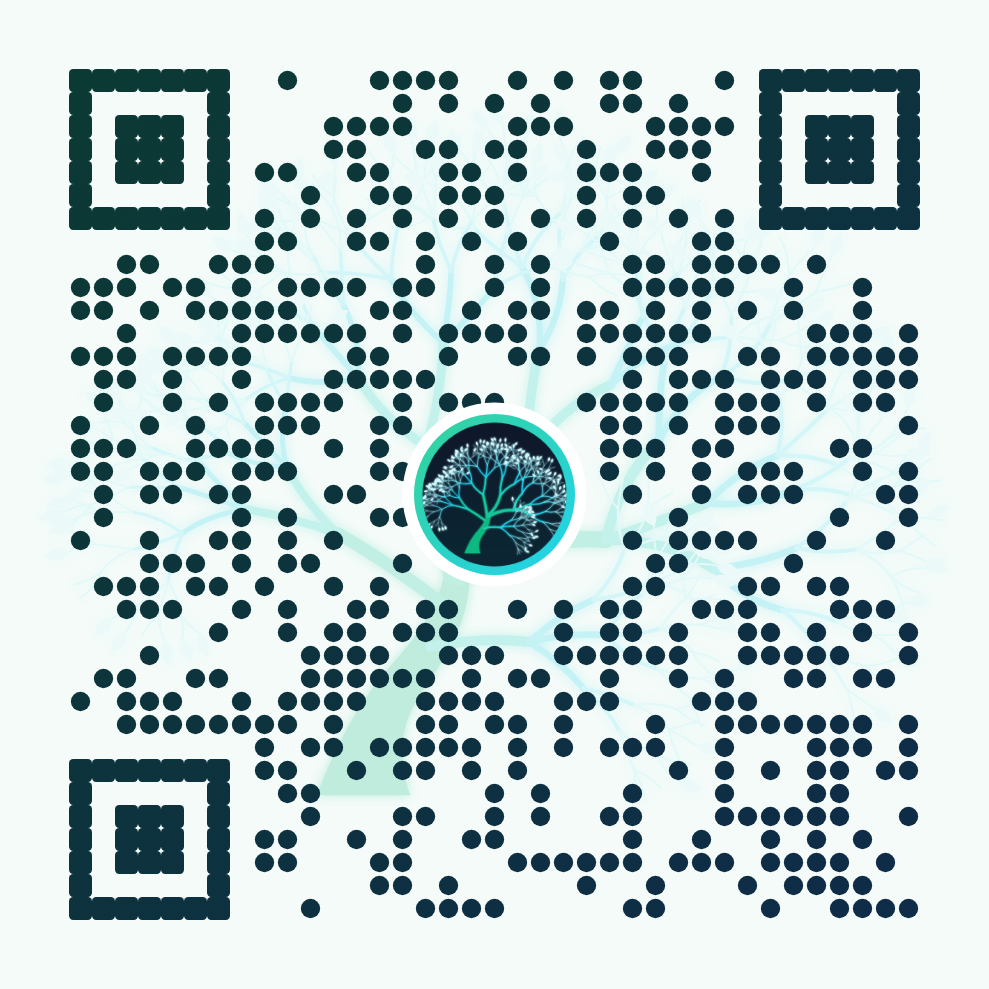
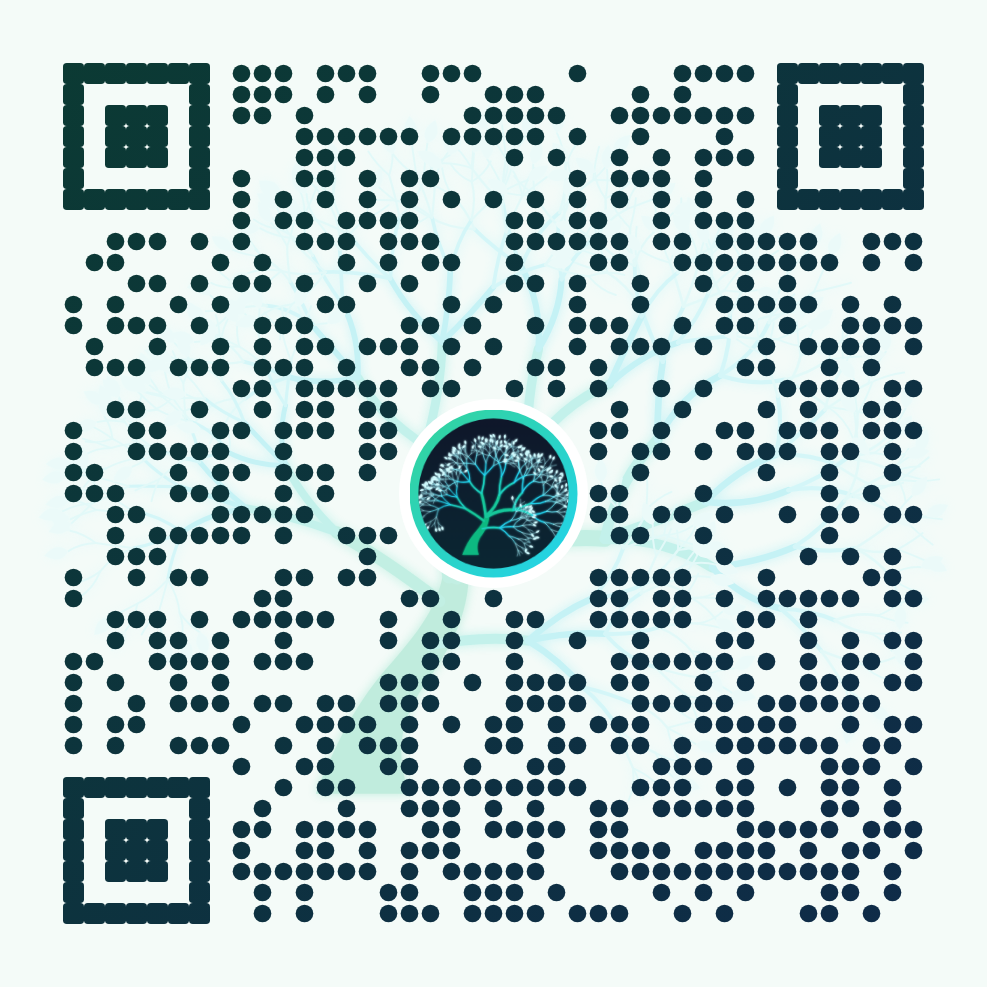
Application Android et QR codes : adresse GitHub Pages (version à jour) ; page de téléchargement Android
Claude-Session: https://claude.ai/code/session_01HwPAuCduVsBrXG3mJiFBf5

diff --git a/nidami/public/android.html b/nidami/public/android.html
@@ -1,0 +1,4 @@
+<!doctype html><html lang="fr"><head><meta charset="utf-8"><meta name="viewport" content="width=device-width,initial-scale=1"><title>Télécharger l'application Android</title>
+<meta http-equiv="refresh" content="0;url=https://github.com/pirax84/Bobby-one/releases/download/cercle-android-latest/cercle.apk">
+<style>body{font:18px system-ui;background:#EAF7F1;color:#0F172A;display:grid;place-items:center;min-height:100vh;margin:0;text-align:center;padding:20px}a{display:inline-block;margin-top:16px;padding:14px 22px;border-radius:14px;background:#0E9F6E;color:#fff;text-decoration:none;font-weight:700}</style></head>
+<body><div><h1>Téléchargement…</h1><p>Si rien ne démarre, touchez le bouton.</p><a href="https://github.com/pirax84/Bobby-one/releases/download/cercle-android-latest/cercle.apk">Télécharger l'application</a></div></body></html>

diff --git a/android-cercle/app/src/main/java/app/cercle/MainActivity.kt b/android-cercle/app/src/main/java/app/cercle/MainActivity.kt
@@ -19,8 +19,8 @@ import android.webkit.WebViewClient
 
 class MainActivity : Activity() {
     companion object {
-        const val HOME = "https://nidami-three.vercel.app/"
-        const val HOST = "nidami-three.vercel.app"
+        const val HOME = "https://pirax84.github.io/Bobby-one/"
+        const val HOST = "pirax84.github.io"
         const val RC_FILE = 1
         const val RC_PERM = 2
     }
